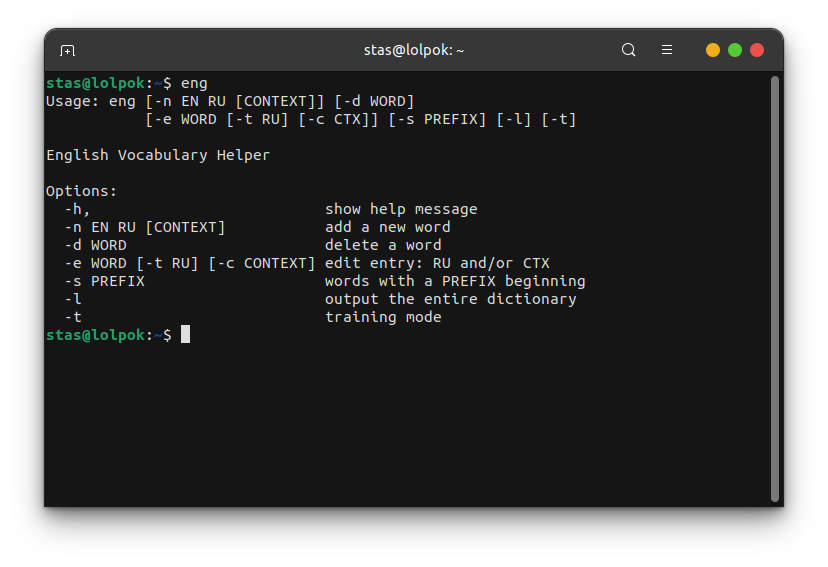
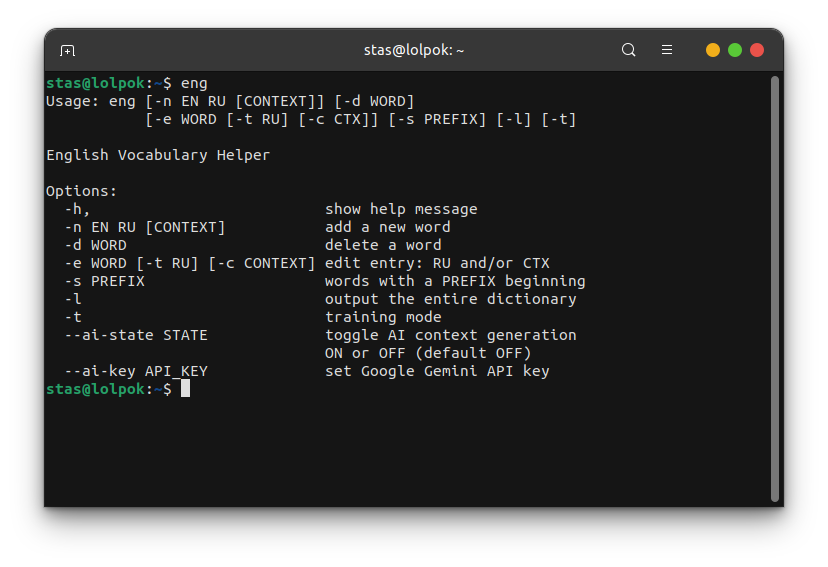
feat: Adding context using AI

Changed region(s): [[0.3925, 0.5697, 0.6944, 0.6896], [0.0604, 0.6296, 0.2415, 0.7196], [0.0604, 0.5697, 0.2717, 0.5996]]

diff --git a/source/auxiliary.py b/source/auxiliary.py
@@ -1,10 +1,114 @@
 import time
+import json
 import random
+import requests
+from pathlib import Path
 from colorama import Fore, Style
 from db_rule import VocabularyDB
 from typing import Dict, Optional, Any
 
+API_URL = ("https://generativelanguage.googleapis.com"
+           "/v1beta/models/gemini-1.5-flash:generateContent")
+CONF_PATH = Path(__file__).parent.parent / 'config.json'
+
 db = VocabularyDB()
+
+
+def load_config():
+    config_path = CONF_PATH
+    default_config = {
+        "AI_ASSIST_ENABLED": False,
+        "GOOGLE_GEMINI_API_KEY": ""
+    }
+    
+    try:
+        with open(config_path, 'r', encoding='utf-8') as file:
+            return json.load(file)
+    except (FileNotFoundError, json.JSONDecodeError):
+        # Creating a file with default settings
+        try:
+            with open(config_path, 'w', encoding='utf-8') as file:
+                json.dump(default_config, file, indent=2, ensure_ascii=False)
+        except Exception:
+            pass  # We silently ignore file creation errors.
+        return default_config
+
+
+config = load_config()
+AI_ASSIST_ENABLED = config.get("AI_ASSIST_ENABLED")
+GOOGLE_GEMINI_API_KEY = config.get("GOOGLE_GEMINI_API_KEY")
+
+
+def get_ai_context(word: str, timeout: int = 10) -> Optional[str]:
+    if not GOOGLE_GEMINI_API_KEY:
+        print(f"Error: Google Gemini API key is not set. Please use --ai-key to set it.")
+        return None
+
+    headers = {
+        "Content-Type": "application/json",
+        "X-goog-api-key": GOOGLE_GEMINI_API_KEY
+    }
+
+    prompt_text = f"""Create a concise English context sentence that demonstrates the meaning of the word '{word}'. 
+
+    Requirements:
+    - The sentence MUST contain the word '{word}' exactly as provided
+    - Keep the sentence short (45 characters maximum)
+    - The context should clearly illustrate the word's meaning through usage
+    - Use natural, everyday language
+    - Provide only the sentence, no additional explanation
+
+    Examples:
+    - Word: "apple" → "She bought a fresh apple from the local farmers market."
+    - Word: "innovation" → "The startup's innovation in AI technology impressed investors."
+    - Word: "navigate" → "He learned to navigate the complex subway system quickly."
+
+    Output format: Just the context sentence, nothing else."""
+
+    data = {
+        "contents": [
+            {
+                "parts": [
+                    {
+                        "text": prompt_text
+                    }
+                ]
+            }
+        ]
+    }
+
+    try:
+        response = requests.post(API_URL, headers=headers, json=data, timeout=timeout)
+        response.raise_for_status()  # Raise an exception for HTTP errors
+        response_json = response.json()
+
+        if "candidates" in response_json and len(response_json["candidates"]) > 0:
+            candidate = response_json["candidates"][0]
+            if "content" in candidate and "parts" in \
+                candidate["content"] and len(candidate["content"]["parts"]) > 0:
+                return candidate["content"]["parts"][0]["text"].strip()
+        print(f"{Fore.LIGHTRED_EX}Error: Unexpected response "
+              "format from Gemini API.{Style.RESET_ALL}")
+        return None
+
+    except requests.exceptions.Timeout:
+        print(f"Error: Google Gemini API request timed out after {timeout} seconds. "
+              "Please check your internet connection or try again later.")
+        print(f"If you are using a VPN, try disabling it or switching locations.")
+        return None
+    except requests.exceptions.RequestException as e:
+        print(f"Error connecting to Google Gemini API: {e}")
+        print(f"Please check your API key and internet connection. If you are "
+              "using a VPN, try disabling it or switching locations.")
+        return None
+    except json.JSONDecodeError:
+        print(f"Error: Could not decode JSON response from Gemini API. "
+              f"Response: {response.text}")
+        return None
+    except Exception as e:
+        print(f"{Fore.LIGHTRED_EX}An unexpected error occurred while generating "
+              f"AI context for \'{word}\': {e}{Style.RESET_ALL}")
+        return None
 
 
 def print_word(word_data: Dict[str, Any], format: bool = True) -> None:
@@ -27,7 +131,17 @@ def print_word(word_data: Dict[str, Any], format: bool = True) -> None:
 
 
 def add_word(eng: str, rus: str, context: Optional[str] = None) -> None:
-    result = db.add_word(english=eng, otherlg=rus, context=context)
+    if AI_ASSIST_ENABLED and context is None:
+        print(f"Generating AI context for {eng}...")
+        ai_generated_context = get_ai_context(eng)
+        if ai_generated_context:
+            context = ai_generated_context
+            print(f"Context: {Fore.LIGHTMAGENTA_EX}[{context}]{Style.RESET_ALL}")
+        else:
+            print(f"Failed to generate AI context for {eng}. Adding without context.")
+
+    result = db.add_word(eng, rus, context)
+    
     if result.success:
         print(f"Added: {eng}")
     else:
@@ -58,12 +172,10 @@ def show_by_prefix(letter: str) -> None:
     result = db.search_words(prefix=letter)
 
     if not result.success:
-        print(f"{Fore.LIGHTRED_EX}Message from db {Style.RESET_ALL}: {result.message}")
+        print(f"Message from db {Style.RESET_ALL}: {result.message}")
         return
     if not result.data:
-        print(
-            f"{Fore.LIGHTRED_EX}No words found for letter {Style.RESET_ALL} \'{letter}\'"
-            )
+        print(f"No words found for letter \'{letter}\'")
         return
 
     for idx, word_data in enumerate(result.data, start=1):

diff --git a/source/argumparse.py b/source/argumparse.py
@@ -13,10 +13,24 @@ Options:
   -e WORD [-t RU] [-c CONTEXT] edit entry: RU and/or CTX
   -s PREFIX                    words with a PREFIX beginning
   -l                           output the entire dictionary
-  -t                           training mode\
+  -t                           training mode
+  --ai-state STATE             toggle AI context generation
+                               ON or OFF (default OFF)
+  --ai-key API_KEY             set Google Gemini API key\
 """
 
-actions = {"-h", "-n","-d","-e","-s","-l","-t"}
+actions = {"-h", "-n", "-d", "-e", "-s", "-l", "-t", "--ai-state", "--ai-key"}
+
+def save_config(config_data):
+    """Saving the configuration to a JSON file"""
+    try:
+        with open(CONF_PATH, 'w', encoding='utf-8') as f:
+            json.dump(config_data, f, indent=2, ensure_ascii=False)
+        return True
+    except Exception as e:
+        print(f"Error saving the configuration: {e}")
+        return False
+
 
 def parse_args(args):
     if not args:
@@ -35,6 +49,37 @@ def parse_args(args):
     if action == "-h":
         print(USAGE)
         return
+    elif action == "--ai-state":
+        if len(other) != 1:
+            print("Expected ON or OFF after --ai-state. See `eng -h`")
+            return
+
+        state, *other = other
+        config = load_config()
+
+        if state == "ON":
+            config["AI_ASSIST_ENABLED"] = True
+            if save_config(config):
+                print("AI context generation enabled.")
+        elif state == "OFF":
+            config["AI_ASSIST_ENABLED"] = False
+            if save_config(config):
+                print("AI context generation disabled.")
+        else:
+            print("Invalid state for --ai-state. Use ON or OFF. See `eng -h`")
+    elif action == "--ai-key":
+        if len(other) != 1:
+            print("Expected API_KEY after --ai-key. See `eng -h`")
+            return
+
+        api_key, *other = other
+        config = load_config()
+
+        config["GOOGLE_GEMINI_API_KEY"] = api_key
+        if save_config(config):
+            print("Google Gemini API key saved to config.json")
+        else:
+            print("Failed to save API key to config.json")
     elif action == "-n":
         if len(other) < 2:
             print("Expected arguments EN RU. See `eng -h`")

diff --git a/source/db_rule.py b/source/db_rule.py
@@ -1,11 +1,12 @@
-import os
 import sqlite3
+from pathlib import Path
+from constants import DB_NAME
 from typing import Optional, Any, Dict
 from contextlib import contextmanager
-from constants import DB_NAME
 
-SCRIPT_DIR = os.path.dirname(os.path.abspath(__file__))
-DB_NAME = os.path.join(SCRIPT_DIR, "..", "database", DB_NAME)
+SCRIPT_DIR = Path(__file__).parent
+DB_NAME = SCRIPT_DIR.parent / "database" / DB_NAME
+
 
 class OperationResult:
     def __init__(

diff --git a/README.md b/README.md
@@ -19,6 +19,45 @@ This is a command line application designed to help you learn new English words!
 
 ![1.png](pictures/1.png)
 
+## 🤖 AI-Powered Context Generation
+
+The application supports automatic context generation using Google Gemini AI.
+
+### ⚙ AI Configuration
+
+**Set up your API key:**
+```bash
+eng --ai-key YOUR_GOOGLE_GEMINI_API_KEY
+```
+
+**Enable/disable AI context generation:**
+```bash
+eng --ai-state ON   # Enable automatic context generation
+eng --ai-state OFF  # Disable (default)
+```
+
+### 🎯 How AI Context Works
+
+When AI assistance is **enabled** (`--ai-state ON`):
+- ✨ **Smart Context Generation**: If you add a word without providing context, Google Gemini automatically creates a relevant example sentence.
+- 🧠 **User Priority**: If you provide your own context, AI respects your input and doesn't override it.
+
+**Example:**
+
+![5.png](pictures/5.png)
+
+### 🔒 Security & Privacy
+
+- **Secure Storage**: API keys are stored locally in `config.json` (automatically added to `.gitignore`).
+- **Reliable Error Handling**: 10-second timeout with helpful error messages.
+- **VPN-Friendly**: Clear guidance if connectivity issues occur.
+
+**Note**: If you encounter connectivity issues with Google Gemini, try using a VPN as the service may not be available in all regions.
+
+Google Gemini Flash was chosen because it offers a wide range of free APIs with sufficient quality to create simple contextual sentences, which makes learning vocabulary using artificial intelligence accessible to everyone at no cost.
+
+For details, see: https://aistudio.google.com/apikey
+
 ## 🧠 Smart Training Explained
 
 1. **⏰ Time-based Prioritization**: Words that you haven't seen in a while (or are new) are given a higher priority. This encourages spaced repetition, a proven learning technique where reviewing material at increasing intervals helps long-term retention. 📈
@@ -72,24 +111,27 @@ The uninstaller will:
 
 ```r
 .
+├── config.json       <-- api keys
 ├── database
-│   └── eng_vocab.db  <-- vocabulary database
+│   └── eng_vocab.db  <-- vocabulary database
 ├── install.sh
 ├── pictures
-│   ├── 1.png
-│   ├── 2.png
-│   ├── 3.png
-│   └── 4.png
+│   ├── 1.png
+│   ├── 2.png
+│   ├── 3.png
+│   ├── 4.png
+│   └── 5.png
 ├── README.md
 ├── requirements.txt
 ├── source
-│   ├── auxiliary.py
-│   ├── constants.py
-│   ├── db_rule.py
-│   └── main.py
+│   ├── argumparse.py
+│   ├── auxiliary.py
+│   ├── constants.py
+│   ├── db_rule.py
+│   └── main.py
 └── uninstall.sh
-```
 
+```
 If the database `eng_vocab.db` does not exist when it is first accessed, it will be created automatically.
 
 **PS**: For me, as a novice developer, this thing turned out to be useful. My English level is not up to the level of reading documentation fluently. However, after creating this tool and adding literally 30 unfamiliar words, I began to understand the text without any problems. 👀
